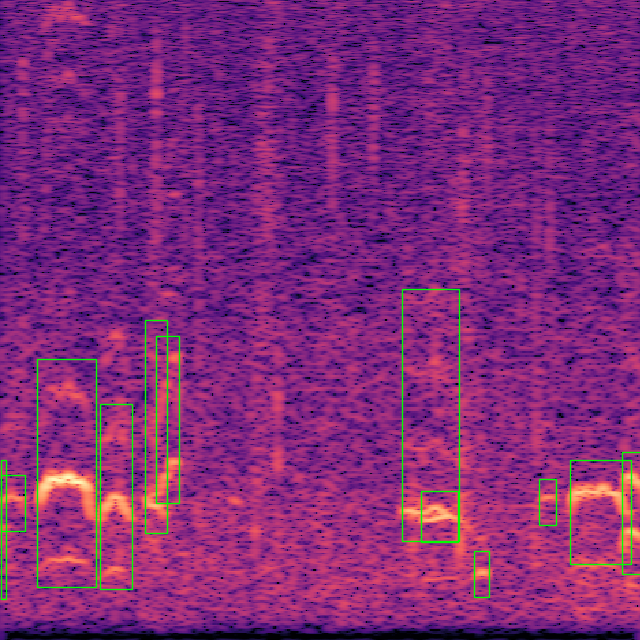
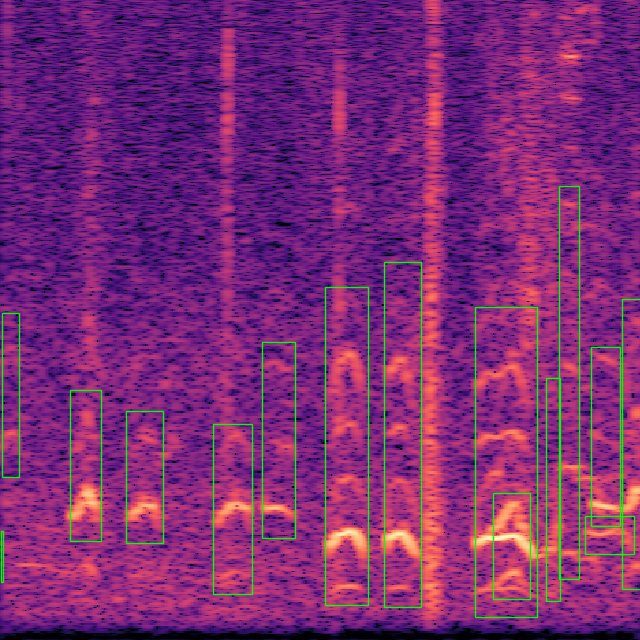
[script] iterate on build_features script to generate bigger spectrograms

diff --git a/scripts/data/build_features.py b/scripts/data/build_features.py
@@ -17,6 +17,7 @@ from forest_elephants_rumble_detection.data.offsets import get_offsets
 from forest_elephants_rumble_detection.data.spectrogram import (
     df_rumbles_to_all_spectrogram_yolov8_bboxes,
     make_spectrogram,
+    make_spectrogram2,
     select_rumbles_at,
 )
 from forest_elephants_rumble_detection.data.yolov8 import bboxes_to_yolov8_txt_format
@@ -86,6 +87,70 @@ def validate_parsed_args(args: dict) -> bool:
         return True
 
 
+def generate_and_save_annotated_spectogram2(
+    audio_filepath: Path,
+    filename: str,
+    output_dir: Path,
+    df: pd.DataFrame,
+    offset: float,
+    duration: float,
+    freq_min: float,
+    freq_max: float,
+    dpi: int,
+    n_fft: int,
+    top_db: float,
+    hop_length: int,
+    width: int,
+    height: int,
+) -> None:
+    """Saves a spectrogram alongside its annotation bboxes of the rumbles."""
+    # Non interactive mode for matplotlib
+    matplotlib.use("Agg")
+
+    df_rumbles = select_rumbles_at(df=df, offset=offset, duration=duration)
+
+    audio_filepaths = df_rumbles["audio_filepath"].unique()
+    assert (
+        len(audio_filepaths) <= 1
+    ), "Assumption that only one Begin File per df_rumbles"
+    audio, sr = load_audio(audio_filepath, duration=duration, offset=offset)
+    fig = make_spectrogram2(
+        audio=audio,
+        sr=sr,
+        n_fft=n_fft,
+        top_db=top_db,
+        fmin=freq_min,
+        fmax=freq_max,
+        dpi=dpi,
+        hop_length=hop_length,
+        width=width,
+        height=height,
+    )
+    ax = fig.get_axes()[0]
+
+    if len(df_rumbles) > 0:
+        bboxes = df_rumbles_to_all_spectrogram_yolov8_bboxes(
+            df_rumbles=df_rumbles,
+            offset=offset,
+            duration=duration,
+            freq_min=freq_min,
+            freq_max=freq_max,
+        )
+        labels = bboxes_to_yolov8_txt_format(bboxes)
+
+        if labels:
+            with open(output_dir / f"{filename}.txt", "w") as f:
+                f.write(labels)
+
+    plt.savefig(output_dir / f"{filename}.png", bbox_inches="tight", pad_inches=0.0)
+    plt.close("all")
+
+    # Clearing memory
+    del fig
+    del ax
+    del audio
+
+
 def generate_and_save_annotated_spectogram(
     audio_filepath: Path,
     filename: str,
@@ -152,8 +217,14 @@ def build_testing_dataset(
     train_dir: Path,
     output_dir: Path,
     duration: float,
+    n_fft: int,
+    top_db: float,
     freq_min: float,
     freq_max: float,
+    dpi: int,
+    hop_length: int,
+    spectrogram_width: int,
+    spectrogram_height: int,
     random_seed: int = 0,
     ratio_random_offsets: float = 0.20,
 ) -> None:
@@ -174,7 +245,7 @@ def build_testing_dataset(
         fp for fp in df_prepared["audio_filepath"].unique() if fp.exists()
     ]
 
-    for audio_filepath in tqdm(audio_filepaths):
+    for audio_filepath in tqdm(audio_filepaths[:3]):
         logging.info(f"audio_filepath: {audio_filepath}")
         output_audio_filepath_dir = output_dir / audio_filepath.stem
         output_audio_filepath_dir.mkdir(exist_ok=True, parents=True)
@@ -199,9 +270,9 @@ def build_testing_dataset(
         logging.info(df_metadata.head())
         df_metadata.to_csv(output_audio_filepath_dir / "metadata.csv")
         logging.info(f"number of offsets: {len(offsets)}")
-        for idx, offset in enumerate(tqdm(offsets)):
+        for idx, offset in enumerate(tqdm(offsets[:10])):
             filename = spectrogram_stem(audio_filepath, idx)
-            generate_and_save_annotated_spectogram(
+            generate_and_save_annotated_spectogram2(
                 audio_filepath=audio_filepath,
                 filename=filename,
                 output_dir=output_audio_filepath_dir,
@@ -210,6 +281,12 @@ def build_testing_dataset(
                 duration=duration,
                 freq_min=freq_min,
                 freq_max=freq_max,
+                dpi=dpi,
+                n_fft=n_fft,
+                top_db=top_db,
+                hop_length=hop_length,
+                width=spectrogram_width,
+                height=spectrogram_height,
             )
 
 
@@ -217,8 +294,14 @@ def build_training_dataset(
     filepath_rumble_clearings: Path,
     output_dir: Path,
     duration: float,
+    n_fft: int,
+    top_db: float,
     freq_min: float,
     freq_max: float,
+    dpi: int,
+    hop_length: int,
+    spectrogram_width: int,
+    spectrogram_height: int,
     random_seed: int = 0,
     ratio_random_offsets: float = 0.20,
 ) -> None:
@@ -231,7 +314,7 @@ def build_training_dataset(
     df = features_training.prepare_df(df_rumble_clearings)
     audio_filepaths = [fp for fp in df["audio_filepath"].unique() if fp.exists()]
 
-    for audio_filepath in tqdm(audio_filepaths):
+    for audio_filepath in tqdm(audio_filepaths[:3]):
         logging.info(f"audio_filepath: {audio_filepath}")
         output_audio_filepath_dir = output_dir / audio_filepath.stem
         output_audio_filepath_dir.mkdir(exist_ok=True, parents=True)
@@ -259,9 +342,20 @@ def build_training_dataset(
         df_metadata.to_csv(output_audio_filepath_dir / "metadata.csv")
 
         logging.info(f"number of offsets: {len(offsets)}")
-        for idx, offset in enumerate(tqdm(offsets)):
+        # FIXME
+        for idx, offset in enumerate(tqdm(offsets[-10:-1])):
             filename = spectrogram_stem(audio_filepath, idx)
-            generate_and_save_annotated_spectogram(
+            # generate_and_save_annotated_spectogram(
+            #     audio_filepath=audio_filepath,
+            #     filename=filename,
+            #     output_dir=output_audio_filepath_dir,
+            #     df=df_audio_filemane,
+            #     offset=offset,
+            #     duration=duration,
+            #     freq_min=freq_min,
+            #     freq_max=freq_max,
+            # )
+            generate_and_save_annotated_spectogram2(
                 audio_filepath=audio_filepath,
                 filename=filename,
                 output_dir=output_audio_filepath_dir,
@@ -270,6 +364,12 @@ def build_training_dataset(
                 duration=duration,
                 freq_min=freq_min,
                 freq_max=freq_max,
+                dpi=dpi,
+                n_fft=n_fft,
+                top_db=top_db,
+                hop_length=hop_length,
+                width=spectrogram_width,
+                height=spectrogram_height,
             )
 
 
@@ -297,35 +397,63 @@ if __name__ == "__main__":
         freq_max = args["freq_max"]
         random_seed = args["random_seed"]
         ratio_random_offsets = args["ratio_random_offsets"]
+        # Default parameters
+        dpi = 96
+        n_fft = 1048 * 8
+        top_db = 70
+        hop_length = 512
+        spectrogram_width = 640
+        spectrogram_height = 640
+
+        config_data = {
+            "duration": duration,
+            "freq_min": freq_min,
+            "freq_max": freq_max,
+            "dpi": dpi,
+            "n_fft": n_fft,
+            "top_db": top_db,
+            "hop_length": hop_length,
+            "width": spectrogram_width,
+            "height": spectrogram_height,
+            "random_seed": random_seed,
+            "ratio_random_offsets": ratio_random_offsets,
+        }
 
         yaml_write(
             to=output_dir / "config.yaml",
-            data={
-                "duration": duration,
-                "freq_min": freq_min,
-                "freq_max": freq_max,
-                "random_seed": random_seed,
-                "ratio_random_offsets": ratio_random_offsets,
-            },
+            data=config_data,
         )
-        logging.info("Building the testing dataset")
-        build_testing_dataset(
-            test_dir=test_dir,
-            train_dir=train_dir,
-            output_dir=output_dir / "testing",
-            duration=duration,
-            freq_min=freq_min,
-            freq_max=freq_max,
-            random_seed=random_seed,
-            ratio_random_offsets=ratio_random_offsets,
-        )
+        # logging.info("Building the testing dataset")
+        # build_testing_dataset(
+        #     test_dir=test_dir,
+        #     train_dir=train_dir,
+        #     output_dir=output_dir / "testing",
+        #     duration=duration,
+        #     n_fft=n_fft,
+        #     top_db=top_db,
+        #     freq_min=freq_min,
+        #     freq_max=freq_max,
+        #     dpi=dpi,
+        #     hop_length=hop_length,
+        #     spectrogram_width=spectrogram_width,
+        #     spectrogram_height=spectrogram_height,
+        #     random_seed=random_seed,
+        #     ratio_random_offsets=ratio_random_offsets,
+        # )
+
         logging.info("Building the training dataset")
         build_training_dataset(
             filepath_rumble_clearings=filepath_rumble_clearings,
             output_dir=output_dir / "training",
             duration=duration,
+            n_fft=n_fft,
+            top_db=top_db,
             freq_min=freq_min,
             freq_max=freq_max,
+            dpi=dpi,
+            hop_length=hop_length,
+            spectrogram_width=spectrogram_width,
+            spectrogram_height=spectrogram_height,
             random_seed=random_seed,
             ratio_random_offsets=ratio_random_offsets,
         )

diff --git a/src/forest_elephants_rumble_detection/data/spectrogram.py b/src/forest_elephants_rumble_detection/data/spectrogram.py
@@ -64,6 +64,53 @@ def make_spectrogram(
     return fig
 
 
+def make_spectrogram2(
+    audio,
+    sr: float,
+    n_fft: float,
+    top_db: float,
+    fmin: float,
+    fmax: float,
+    dpi: int,
+    hop_length: int,
+    width: int,
+    height: int,
+):
+
+    # Compute the Short-Time Fourier Transform (STFT)
+    D = librosa.stft(audio, n_fft=n_fft, hop_length=hop_length)
+
+    # Convert the amplitude to decibels
+    S_DB = librosa.amplitude_to_db(np.abs(D), ref=np.max, top_db=top_db)
+
+    # Matplotlib specific: by default it counts some inches for the padding -
+    # we subtract it to match our target width and height
+    pad_inches = 0.31
+    fig = plt.figure(
+        figsize=(width / dpi + pad_inches, height / dpi + pad_inches),
+        dpi=dpi,
+    )
+    fig.tight_layout()
+    color_mesh = librosa.display.specshow(
+        S_DB,
+        sr=sr,
+        x_axis="time",
+        y_axis="log",
+        n_fft=n_fft,
+    )
+    ax = fig.get_axes()[0]
+    # Raw spectrogram data without labels or axis
+    plt.ylim(fmin, fmax)
+    plt.axis("off")
+    ax.set_axis_off()
+    plt.margins(x=0)
+
+    # Prevents memory leakage
+    del color_mesh
+
+    return fig
+
+
 def select_rumbles_at(df: pd.DataFrame, offset: float, duration: float) -> pd.DataFrame:
     """Filters our rows in the dataframe `df` that are outside the offset and
     duration range.
